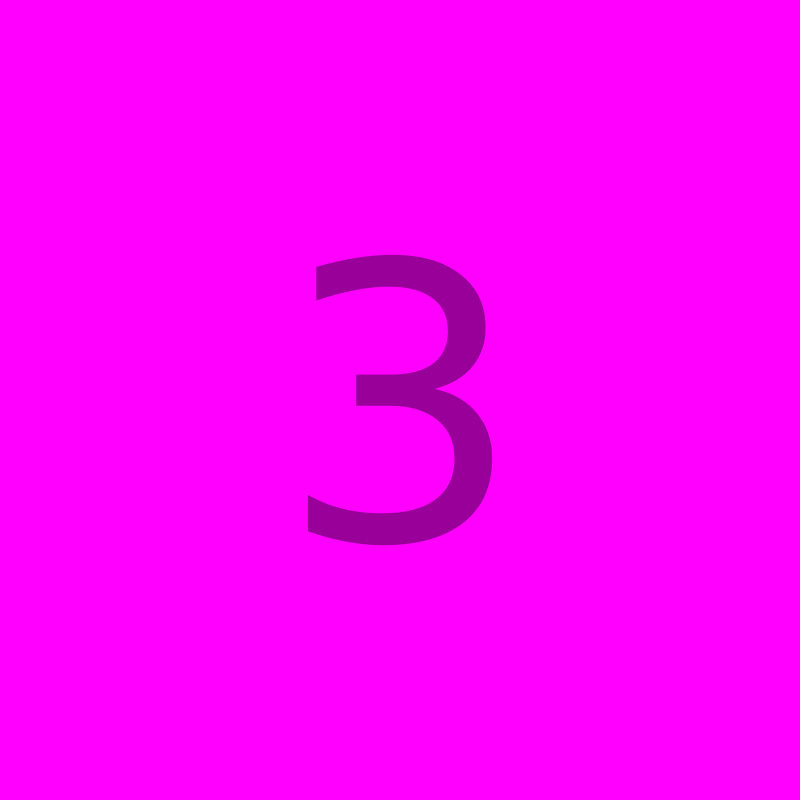
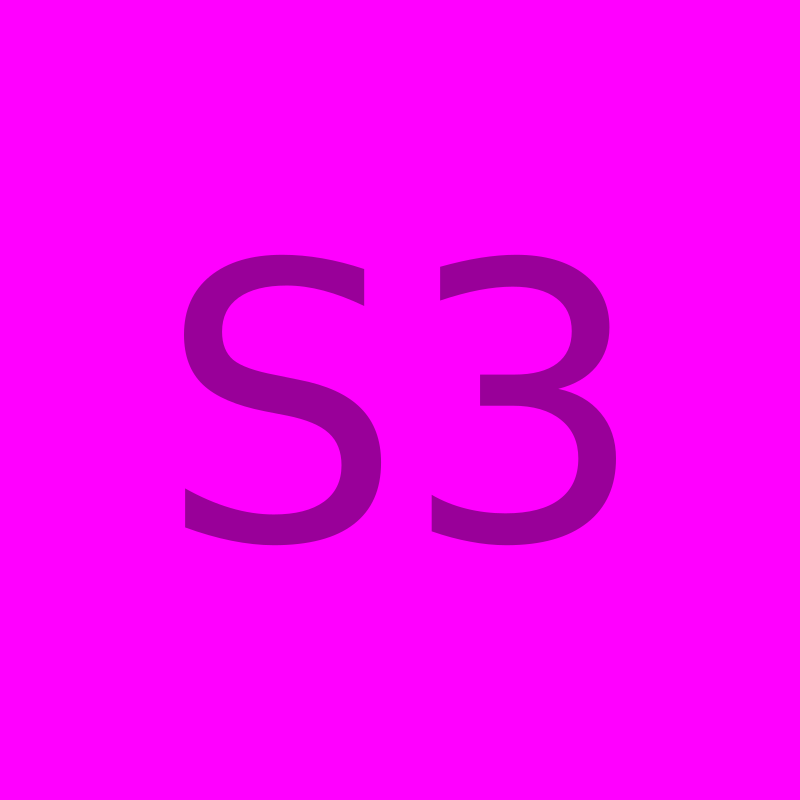
pattern

Changed region(s): [[0.2188, 0.3125, 0.7812, 0.6875]]

diff --git a/src/App.scss b/src/App.scss
@@ -15,14 +15,14 @@
   margin-bottom: 1.5rem;
 
   @include media-breakpoint-up(lg) {
-    margin-bottom: 17px;
+    margin-bottom: 15px;
   }
 
   @include media-breakpoint-up(xl) {
-    margin-bottom: 20px;
+    margin-bottom: 18px;
   }
 
   @include media-breakpoint-up(xxl) {
-    margin-bottom: 24px;
+    margin-bottom: 21px;
   }
 }

diff --git a/src/App.jsx b/src/App.jsx
@@ -1,7 +1,7 @@
 import React from 'react';
 import './App.scss';
 
-import Pattern from './Pattern2';
+import Pattern from './Pattern';
 
 const App = () => (
   <div className="App">
